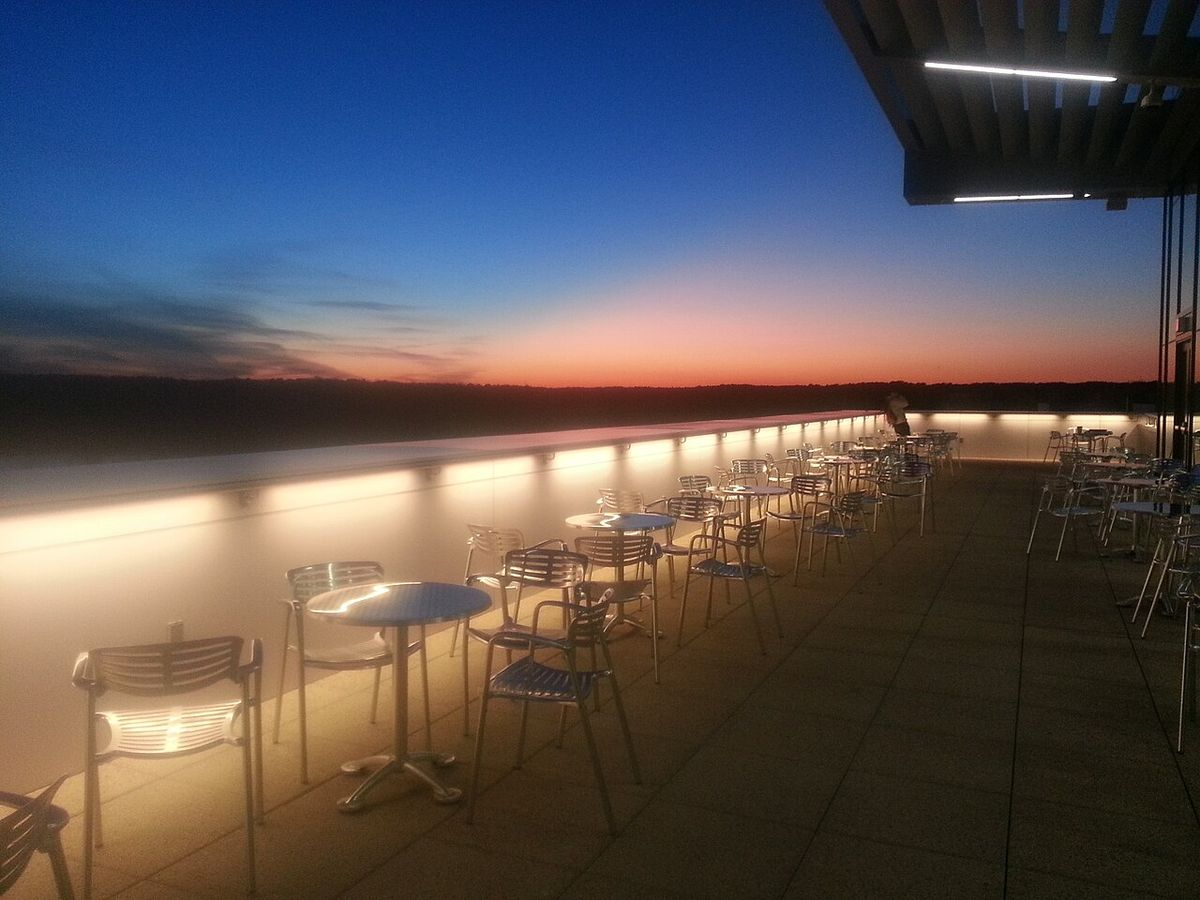
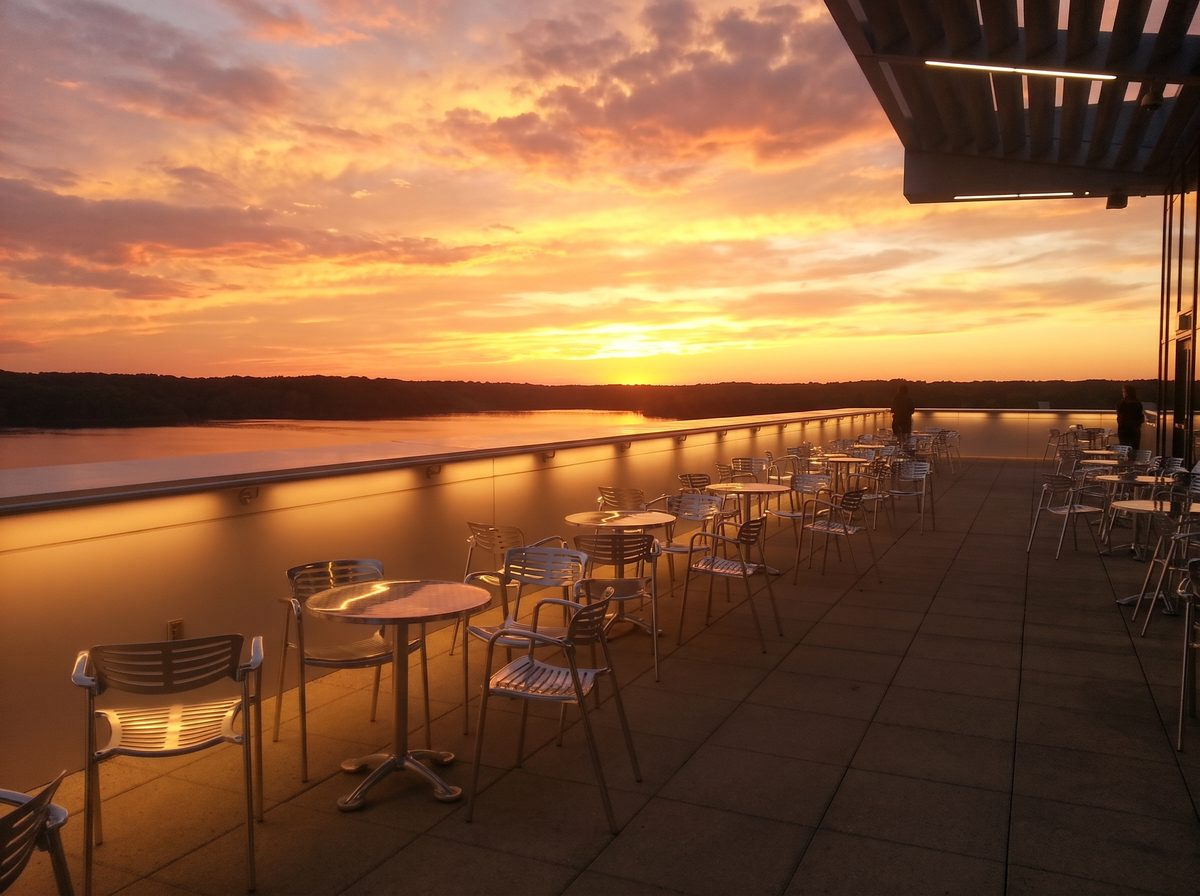
Golden-hour campus photos; hide photo credits for now
- Relight the eight sample photos to golden hour and update their sizes and descriptions
- Stop showing credits under photos (sources stay in public/photos/CREDITS.md)
- Drop the credit instructions from the lesson's photos step

diff --git a/src/posts.js b/src/posts.js
@@ -23,16 +23,16 @@ export const posts = [
   { id: 15, author: 'ben_o', hoursAgo: 120, howls: 2, text: 'Career fair is tomorrow in Talley. Bring resumes, wear a blazer, and eat something first.' },
 ]
 
-// Real NC State photos from Wikimedia Commons, saved in public/photos. Credits are shown with each photo.
+// Real NC State photos from Wikimedia Commons, relit to golden hour, saved in public/photos. Sources are in public/photos/CREDITS.md.
 export const photos = {
-  'belltower': { alt: "The Memorial Belltower framed by pink and white blossoming trees under a blue sky", width: 1200, height: 798, credit: "Suzie Tremmel from Raleigh, USA, CC BY 2.0", creditUrl: "https://commons.wikimedia.org/wiki/File:Belltower_ncsu.jpg" },
-  'brickyard': { alt: "The Brickyard, a wide plaza of red and gray brick patterns with trees and students crossing", width: 1200, height: 799, credit: "Surrahwall, CC BY-SA 3.0", creditUrl: "https://commons.wikimedia.org/wiki/File:Brickyard.JPG" },
-  'carter-finley': { alt: "Aerial view of a packed Carter-Finley Stadium in red, with tailgate lots full of cars", width: 1200, height: 803, credit: "SMaloney, CC BY 3.0", creditUrl: "https://commons.wikimedia.org/wiki/File:Carter-Finley_Stadium_1.jpg" },
-  'hunt-commons': { alt: "Bright study area inside Hunt Library with tall windows, red couches and students at tables", width: 1200, height: 800, credit: "Seannator, CC BY-SA 3.0", creditUrl: "https://commons.wikimedia.org/wiki/File:Hunt_Library_Commons_Area.JPG" },
-  'hunt-rooftop-sunset': { alt: "Sunset over Lake Raleigh from the Hunt Library rooftop terrace, with empty caf\u00e9 tables", width: 1200, height: 900, credit: "Rhododendrites, CC BY-SA 3.0", creditUrl: "https://commons.wikimedia.org/wiki/File:NCSU_Hunt_Library_rooftop_study_area_2013-01.jpg" },
-  'talley': { alt: "Talley Student Union with red umbrellas on the patio and a green lawn in front", width: 1200, height: 773, credit: "Abbylabar, CC BY-SA 3.0", creditUrl: "https://commons.wikimedia.org/wiki/File:Talley_Student_Union.JPG" },
-  'dh-hill': { alt: "The red brick tower of D. H. Hill Jr. Library above the Brickyard on a sunny day", width: 1200, height: 799, credit: "Surrahwall, CC BY-SA 3.0", creditUrl: "https://commons.wikimedia.org/wiki/File:D.H._Hill_Library.JPG" },
-  'free-expression-tunnel': { alt: "Students walking through the Free Expression Tunnel, its walls covered in red and white paint", width: 1200, height: 900, credit: "Ducttapeavenger, Public domain", creditUrl: "https://commons.wikimedia.org/wiki/File:Freeexpressiontunnel-ncsu.jpg" },
+  'belltower': { alt: "The Memorial Belltower glowing in golden sunset light, framed by pink and white blossoming trees", width: 1200, height: 805, credit: "Suzie Tremmel from Raleigh, USA, CC BY 2.0", creditUrl: "https://commons.wikimedia.org/wiki/File:Belltower_ncsu.jpg" },
+  'brickyard': { alt: "The Brickyard at sunset, with long tree shadows stretching across its red and gray brick patterns", width: 1200, height: 805, credit: "Surrahwall, CC BY-SA 3.0", creditUrl: "https://commons.wikimedia.org/wiki/File:Brickyard.JPG" },
+  'carter-finley': { alt: "Aerial view of a packed Carter-Finley Stadium in red at golden hour, with tailgate lots full of cars", width: 1200, height: 805, credit: "SMaloney, CC BY 3.0", creditUrl: "https://commons.wikimedia.org/wiki/File:Carter-Finley_Stadium_1.jpg" },
+  'hunt-commons': { alt: "Golden sunset light streaming through Hunt Library's tall windows across the study area and red couches", width: 1200, height: 805, credit: "Seannator, CC BY-SA 3.0", creditUrl: "https://commons.wikimedia.org/wiki/File:Hunt_Library_Commons_Area.JPG" },
+  'hunt-rooftop-sunset': { alt: "An orange and rose sunset over Lake Raleigh from the Hunt Library rooftop terrace, with caf\u00e9 tables", width: 1200, height: 896, credit: "Rhododendrites, CC BY-SA 3.0", creditUrl: "https://commons.wikimedia.org/wiki/File:NCSU_Hunt_Library_rooftop_study_area_2013-01.jpg" },
+  'talley': { alt: "Talley Student Union at sunset, with red umbrellas on the patio and long shadows across the lawn", width: 1200, height: 805, credit: "Abbylabar, CC BY-SA 3.0", creditUrl: "https://commons.wikimedia.org/wiki/File:Talley_Student_Union.JPG" },
+  'dh-hill': { alt: "The red brick tower of D. H. Hill Jr. Library glowing orange at sunset above the Brickyard", width: 1200, height: 805, credit: "Surrahwall, CC BY-SA 3.0", creditUrl: "https://commons.wikimedia.org/wiki/File:D.H._Hill_Library.JPG" },
+  'free-expression-tunnel': { alt: "Golden sunset light pouring into the Free Expression Tunnel past students and walls painted red", width: 1200, height: 896, credit: "Ducttapeavenger, Public domain", creditUrl: "https://commons.wikimedia.org/wiki/File:Freeexpressiontunnel-ncsu.jpg" },
 }
 
 // Sample comments, by post id. minutesAfter counts from when the post went up.

diff --git a/public/lesson/index.html b/public/lesson/index.html
@@ -1021,7 +1021,7 @@ photos: {
 - In the feed and on the post page, photos keep their shape while loading so nothing jumps, and fade in gently once they're ready.
 - Add real photos to some of the sample posts, from these campus places:
 {{places:list}}
-  Only use photos with an open license, like the ones on Wikimedia Commons, and save them in the project. Show a small credit under each one with the photographer's name and the license, linked to where it came from. List them all in a credits file.
+  Only use photos with an open license, like the ones on Wikimedia Commons, and save them in the project. Pick scenic ones with warm, golden-hour light where you can, so the feed feels like a campus at sunset.
 - If Supabase needs settings changed, guide me in the browser one step at a time and wait for "done".
 
 When you're done, tell me how to check it in 3 simple steps, then save a version.` },
@@ -1077,7 +1077,7 @@ const STEPS = [
       <p>These came from my own test runs of this lesson. Open them on your phone.</p>
       <div class="link-cards">
         <a class="link-card" href="https://howl-test-git-workshop-tim-rosenberg.vercel.app" target="_blank" rel="noopener"><span class="when">End of class</span><strong>Howl, live</strong><small>Your own design system in NC State red, a home screen for phone and laptop, posting, howling, comments and campus events.</small><span class="go">Open it</span></a>
-        <a class="link-card" href="https://howl-test.vercel.app" target="_blank" rel="noopener"><span class="when">After the take-home steps</span><strong>The full app</strong><small>A real database everyone shares, sign-in by email link, your own posts, reporting, photos of real campus spots, comments and events for everyone, plus Alerts and Profile.</small><span class="go">Open it</span></a>
+        <a class="link-card" href="https://howl-test.vercel.app" target="_blank" rel="noopener"><span class="when">After the take-home steps</span><strong>The full app</strong><small>A real database everyone shares, sign-in by email link, your own posts, reporting, golden-hour photos of real campus spots, comments and events for everyone, plus Alerts and Profile.</small><span class="go">Open it</span></a>
         <a class="link-card" href="https://howl-test.vercel.app/design-system" target="_blank" rel="noopener"><span class="when">Along the way</span><strong>The design system</strong><small>Colors, type, spacing and every building block, in light and dark. It lives at its own hidden link.</small><span class="go">Open it</span></a>
       </div>
       <div class="callout"><span class="label">Yours will look different</span>These are from my test run. Your Howl will have its own look, because you\'ll pick it.</div>` },
@@ -1215,8 +1215,7 @@ const STEPS = [
   { id: 'accounts', group: '5 · Keep building (after launch)', label: 'Let people sign in', title: 'Let people sign in', prompt: 'accounts',
     lead: 'Accounts make Howl a real social app: every post belongs to someone, and people can delete their own posts.' },
   { id: 'photos', group: '5 · Keep building (after launch)', label: 'Add photos to posts', title: 'Add photos to posts', prompt: 'photos',
-    lead: 'Campus life is visual. Let people add a photo to a post, with a description for anyone who can\'t see it. Sample posts get real photos of NC State, from photographers who share their work openly.',
-    after: '<div class="callout idea"><span class="label">Why credits matter</span>Open-license photos are free to use as long as you credit the photographer. It\'s the same respect you\'d want for your own work, and it keeps your portfolio piece clean.</div>' },
+    lead: 'Campus life is visual. Let people add a photo to a post, with a description for anyone who can\'t see it. Sample posts get real, scenic photos of NC State.' },
   { id: 'finish', group: '5 · Keep building (after launch)', label: 'Get it ready for real students', title: 'Get it ready for real students', prompt: 'finish',
     lead: 'The last mile of an MVP: a way to report bad posts, a full quality check on every screen, and a link that looks good when it\'s shared.' },
   { id: 'casestudy', group: '5 · Keep building (after launch)', label: 'Write your case study', title: 'Write your case study', prompt: 'casestudy',

diff --git a/src/PostCard.jsx b/src/PostCard.jsx
@@ -23,18 +23,6 @@ function PostPhoto({ image, full }) {
           ref={(el) => el?.complete && el.naturalWidth && !loaded && setLoaded(true)}
         />
       </div>
-      {image.credit && (
-        <figcaption className="howl-meta post-photo-credit">
-          Photo:{' '}
-          {image.creditUrl ? (
-            <a href={image.creditUrl} target="_blank" rel="noopener noreferrer">
-              {image.credit}
-            </a>
-          ) : (
-            image.credit
-          )}
-        </figcaption>
-      )}
     </figure>
   )
 }

diff --git a/src/App.css b/src/App.css
@@ -718,19 +718,6 @@ body {
   transform: scale(1.015);
 }
 
-.post-photo-credit {
-  margin-top: var(--space-4);
-}
-
-.post-photo-credit a {
-  color: inherit;
-  text-underline-offset: 2px;
-}
-
-.post-photo-credit a:hover {
-  color: var(--color-text);
-}
-
 /* Photo in the write box */
 .compose-photo {
   display: grid;

diff --git a/AGENTS.md b/AGENTS.md
@@ -7,7 +7,7 @@ Built with Vite + React (JavaScript). Run it with `npm run dev`.
 - `src/App.jsx` holds the pages, with `PostCard.jsx`, `PostPage.jsx` (a post and its comments), `Events.jsx`, `Icon.jsx` and `App.css` beside it. `src/posts.js` holds the sample posts, comments and events, and `src/postStore.js` is the only place that loads or saves them.
 - Pages have real addresses (`/`, `/events`, `/post/12`, `/alerts`, `/profile`) through `src/router.jsx`. New addresses also need a rewrite in `vercel.json`.
 - The lesson is published at `/lesson` from `public/lesson/index.html`. Its source lives outside this repo; copy it in when it changes.
-- Photos: posts can have one photo with a required description (`src/photo.js` shrinks it first). On the live site photos go to the Supabase `post-photos` bucket, in a folder per person; on previews they're saved in the browser. Sample photos are real NC State places from Wikimedia Commons in `public/photos/`, credited in `public/photos/CREDITS.md` and under each photo. Keep the credit whenever you use one.
+- Photos: posts can have one photo with a required description (`src/photo.js` shrinks it first). On the live site photos go to the Supabase `post-photos` bucket, in a folder per person; on previews they're saved in the browser. Sample photos are real NC State places from Wikimedia Commons, relit to golden hour, in `public/photos/`. Their sources and licenses are in `public/photos/CREDITS.md`; credits aren't shown in the app yet.
 - Motion: use the timing tokens and `howl-rise` (cascading fade-in, set `--i` on each item) from `components.css`. Everything stops for people who turn on Reduce Motion.
 - `src/postStore.js` uses Supabase when `VITE_SUPABASE_URL` and `VITE_SUPABASE_ANON_KEY` are set, and the sample posts otherwise. On Vercel, set those two only for Production, so preview links always show sample posts. The tables and rules are in `supabase/schema.sql`; `supabase/add-comments-and-events.sql` adds comments and events to an older database.
 - Accounts: people sign in with an email link (`src/SignIn.jsx`). Anyone can read; posting, howling, commenting, reporting and saying you're going to an event need an account. People can delete their own posts from the "…" menu.

diff --git a/CASE-STUDY.md b/CASE-STUDY.md
@@ -31,7 +31,7 @@ Motion stays quiet: posts fade in one after another, the Howl button pops and th
 - Posting up to 280 characters, with a counter and a friendly hint.
 - Howling, Howl's own version of a like: one per person per post, with a clear "Howled" state.
 - A page for every post, with comments, and a share button that opens the phone's share sheet.
-- Photos on posts, with a required description for screen readers. Photos shrink on the phone before upload, and sample posts use real campus photos with credits.
+- Photos on posts, with a required description for screen readers. Photos shrink on the phone before upload, and sample posts use real campus photos, relit to golden hour.
 - Campus events, with an "I'm going" button and the next three events beside the feed on a laptop.
 - Reporting: a post is hidden after 3 reports.
 - A link preview image and a small icon, so shared links look right in group chats.

diff --git a/public/photos/CREDITS.md b/public/photos/CREDITS.md
@@ -1,6 +1,8 @@
 # Photo credits
 
-Sample photos of NC State's campus, from Wikimedia Commons. Resized to 1200px wide; otherwise unchanged.
+Sample photos of NC State's campus, from Wikimedia Commons. Relit to golden hour with an AI image editor (Nano Banana Pro) and resized to 1200px wide.
+
+The app doesn't show these credits yet. Most of these licenses (CC BY and CC BY-SA) require crediting the photographer wherever the photo appears, so add credits back before sharing Howl widely.
 
 | File | Photographer | License | Source |
 |---|---|---|---|
